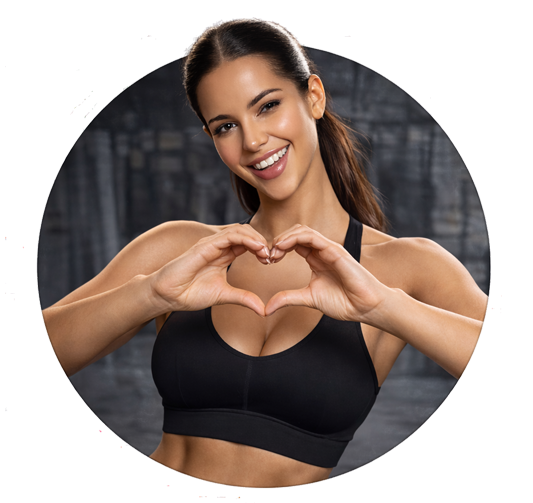
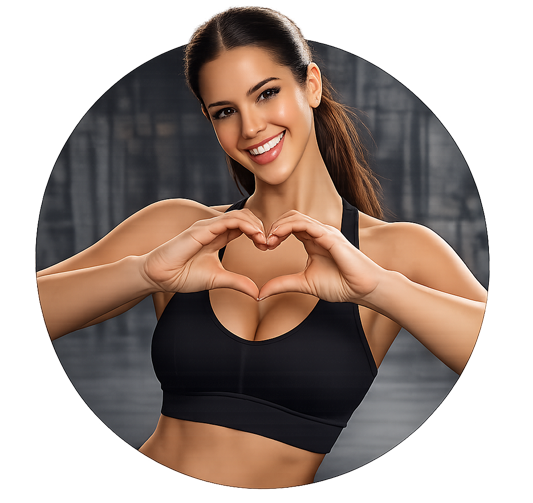
Fix moto5.png, redesign welcome screen with circle video and random slogan
- Updated moto5.png with fixed version (no visual defects)
- Welcome screen: black background, circle video, 7 random slogans,
  blue start button (removed emoji, removed light background)

diff --git a/templates/index.html b/templates/index.html
@@ -150,19 +150,30 @@
 
   /* ── WELCOME ─────────────────────────────────────────── */
   #v-welcome {
-    background: var(--bg);
+    background: #000;
     justify-content: center;
     align-items: center;
     padding: 40px 32px;
-    gap: 36px;
+    gap: 32px;
   }
-  .welcome-emoji { font-size: 64px; line-height: 1; }
-  .welcome-text {
-    font-size: 24px; font-weight: 700;
-    color: var(--text);
+  .welcome-video-wrap {
+    width: 260px; height: 260px;
+    border-radius: 50%;
+    overflow: hidden;
+    border: 3px solid rgba(255,255,255,0.18);
+    flex-shrink: 0;
+  }
+  .welcome-video {
+    width: 100%; height: 100%;
+    object-fit: cover;
+  }
+  .welcome-slogan {
+    font-size: 22px; font-weight: 700;
+    color: #FFFFFF;
     text-align: center;
     line-height: 1.35;
-    letter-spacing: -0.4px;
+    letter-spacing: -0.3px;
+    max-width: 320px;
   }
   .welcome-btn {
     width: 100%; max-width: 340px;
@@ -523,8 +534,12 @@
 
   <!-- ── WELCOME ───────────────────────────────────────── -->
   <div id="v-welcome" class="view">
-    <div class="welcome-emoji">💪</div>
-    <p class="welcome-text">Игорь, добро пожаловать,<br>готов начать тренировку?</p>
+    <div class="welcome-video-wrap">
+      <video id="welcome-video" autoplay muted loop playsinline class="welcome-video">
+        <source src="/static/video/circle_video.webm" type="video/webm">
+      </video>
+    </div>
+    <p id="welcome-slogan" class="welcome-slogan"></p>
     <button id="welcome-btn" class="welcome-btn">Начать тренировку</button>
   </div>
 
@@ -628,6 +643,17 @@
 <div id="toast"></div>
 
 <script>
+/* ── Welcome slogans ─────────────────────────────────── */
+const WELCOME_SLOGANS = [
+  'Привет милый, погнали?',
+  'Покачаемся сегодня?',
+  'Отжаришь по полной?',
+  'Покажи им класс!',
+  'Зажги мой король!',
+  'Обожаю тебя, вперед!',
+  'Ты лучший, покажи класс!',
+];
+
 /* ── State ────────────────────────────────────────────── */
 const S = {
   sessionId:   null,
@@ -793,11 +819,22 @@ async function postLoginSetup() {
   if (activeSessionData?.session) {
     await resumeActiveSession(activeSessionData.session);
   } else {
-    showView('welcome');
+    showWelcome();
   }
 }
 
 /* ── Welcome screen ──────────────────────────────────── */
+function showWelcome() {
+  // Pick random slogan
+  const slogan = WELCOME_SLOGANS[Math.floor(Math.random() * WELCOME_SLOGANS.length)];
+  document.getElementById('welcome-slogan').textContent = slogan;
+  // Restart video
+  const vid = document.getElementById('welcome-video');
+  vid.currentTime = 0;
+  vid.play().catch(() => {});
+  showView('welcome');
+}
+
 document.getElementById('welcome-btn').addEventListener('click', () => {
   showView('app');
   switchTab('workout');
